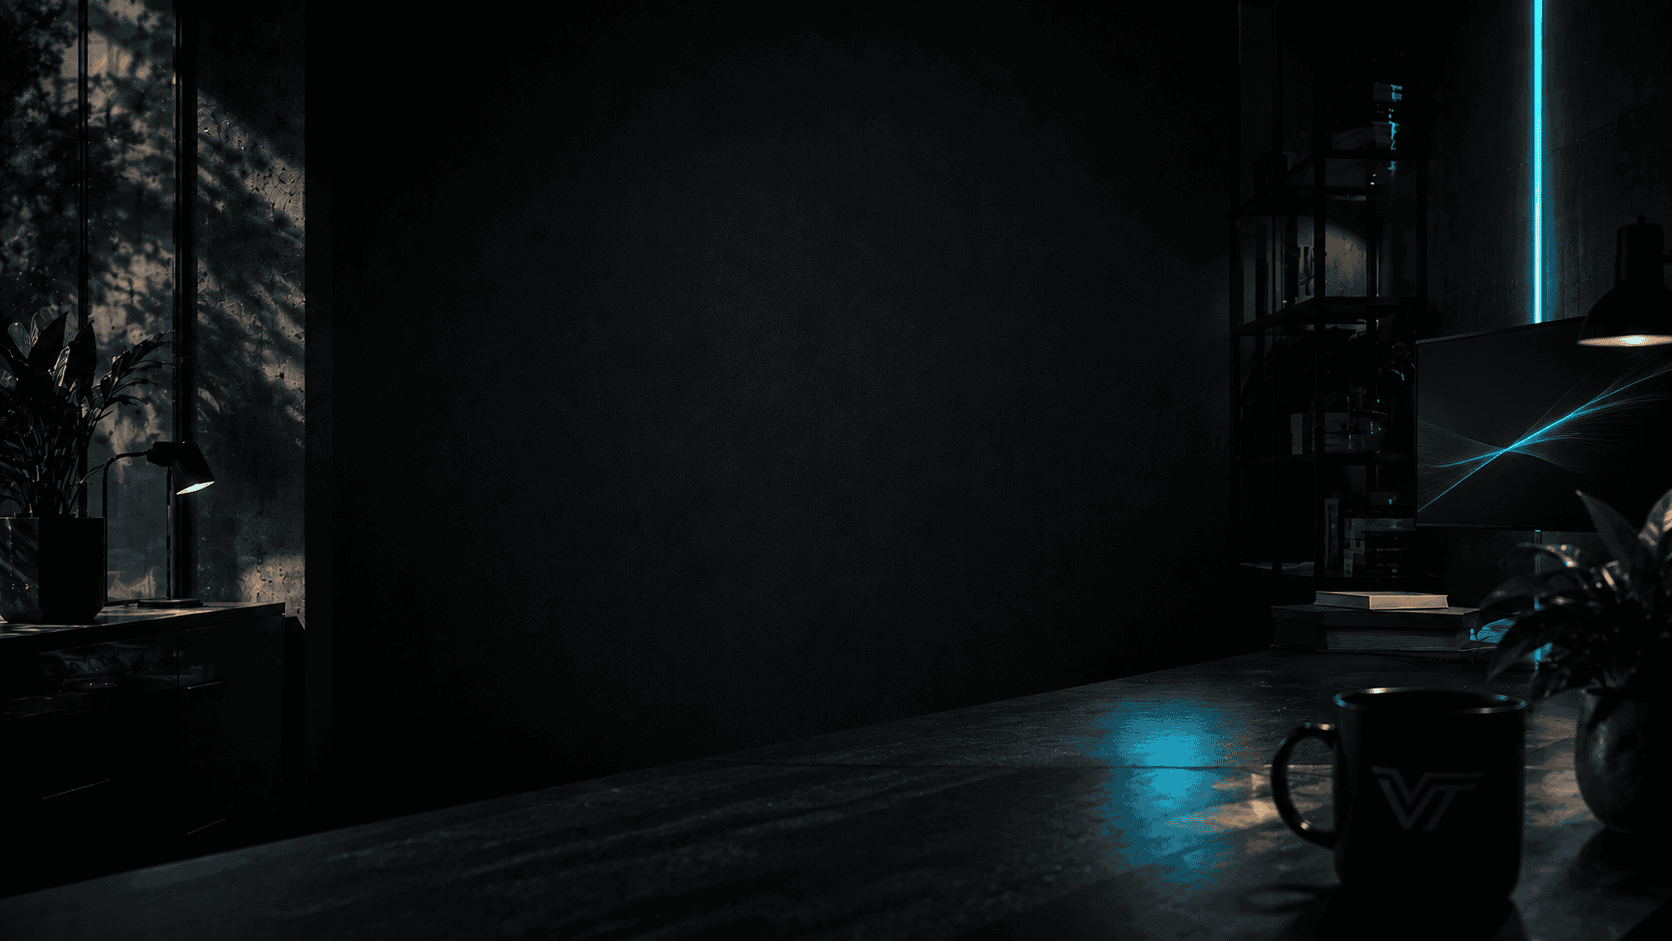
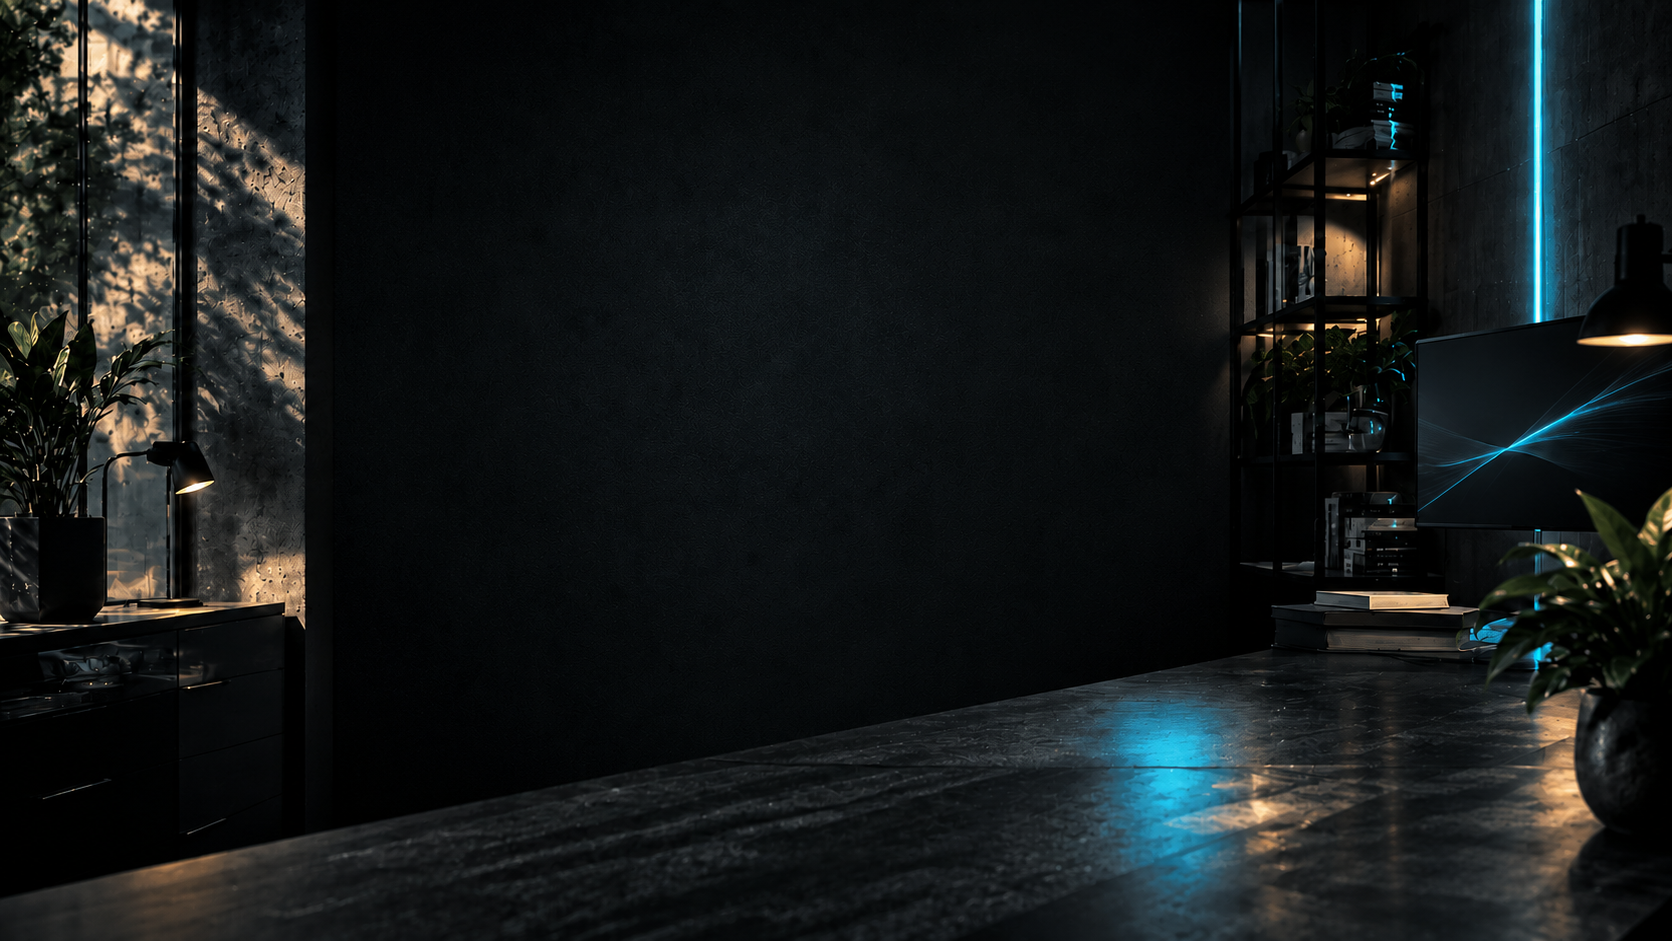
Last save before the redesign

diff --git a/src/pages/about/AboutValues.jsx b/src/pages/about/AboutValues.jsx
@@ -1,0 +1,200 @@
+import "./AboutPage.css";
+
+export function AboutValues() {
+  return (
+    <div className="values-container">
+      <div className="values-header reveal">
+        <h2>Our Values</h2>
+        <p>The principles that guide everything we do</p>
+      </div>
+
+      <div className="values-services">
+        <div className="service reveal">
+          <div className="icon">
+            <svg xmlns="http://www.w3.org/2000/svg" viewBox="0 0 640 640">
+              <path
+                fill="rgb(64, 254, 254)"
+                d="M598.1 139.4C608.8 131.6 611.2 116.6 603.4 105.9C595.6 95.2 580.6 92.8 569.9 100.6L495.4 154.8L485.5 148.2C465.8 135 442.6 128 418.9 128L359.7 128L359.3 128L215.7 128C189 128 163.2 136.9 142.3 153.1L70.1 100.6C59.4 92.8 44.4 95.2 36.6 105.9C28.8 116.6 31.2 131.6 41.9 139.4L129.9 203.4C139.5 210.3 152.6 209.3 161 201L164.9 197.1C178.4 183.6 196.7 176 215.8 176L262.1 176L170.4 267.7C154.8 283.3 154.8 308.6 170.4 324.3L171.2 325.1C218 372 294 372 340.9 325.1L368 298L465.8 395.8C481.4 411.4 481.4 436.7 465.8 452.4L456 462.2L425 431.2C415.6 421.8 400.4 421.8 391.1 431.2C381.8 440.6 381.7 455.8 391.1 465.1L419.1 493.1C401.6 503.5 381.9 509.8 361.5 511.6L313 463C303.6 453.6 288.4 453.6 279.1 463C269.8 472.4 269.7 487.6 279.1 496.9L294.1 511.9L290.3 511.9C254.2 511.9 219.6 497.6 194.1 472.1L65 343C55.6 333.6 40.4 333.6 31.1 343C21.8 352.4 21.7 367.6 31.1 376.9L160.2 506.1C194.7 540.6 241.5 560 290.3 560L342.1 560L343.1 561L344.1 560L349.8 560C398.6 560 445.4 540.6 479.9 506.1L499.8 486.2C501 485 502.1 483.9 503.2 482.7C503.9 482.2 504.5 481.6 505.1 481L609 377C618.4 367.6 618.4 352.4 609 343.1C599.6 333.8 584.4 333.7 575.1 343.1L521.3 396.9C517.1 384.1 510 372 499.8 361.8L385 247C375.6 237.6 360.4 237.6 351.1 247L307 291.1C280.5 317.6 238.5 319.1 210.3 295.7L309 197C322.4 183.6 340.6 176 359.6 175.9L368.1 175.9L368.3 175.9L419.1 175.9C433.3 175.9 447.2 180.1 459 188L482.7 204C491.1 209.6 502 209.3 510.1 203.4L598.1 139.4z"
+              />
+            </svg>
+          </div>
+          <h3>Trust & Transparency</h3>
+          <p>
+            Honest communication, clear timelines, and no surprises. We believe
+            trust is built through transparency at every stage of the journey.
+          </p>
+        </div>
+
+        <div className="service reveal">
+          <div className="icon">
+            <svg
+              xmlns="http://www.w3.org/2000/svg"
+              width="28"
+              height="28"
+              viewBox="0 0 28 28"
+              fill="none"
+            >
+              <path
+                d="M22.1673 16.3333C23.9057 14.63 25.6673 12.5883 25.6673 9.91667C25.6673 8.21486 24.9913 6.58276 23.7879 5.3794C22.5846 4.17604 20.9525 3.5 19.2507 3.5C17.1973 3.5 15.7507 4.08333 14.0007 5.83333C12.2507 4.08333 10.804 3.5 8.75065 3.5C7.04885 3.5 5.41674 4.17604 4.21338 5.3794C3.01002 6.58276 2.33398 8.21486 2.33398 9.91667C2.33398 12.6 4.08398 14.6417 5.83398 16.3333L14.0007 24.5L22.1673 16.3333Z"
+                stroke="#00D3F2"
+                stroke-width="2.33333"
+                stroke-linecap="round"
+                strokeLinejoin="round"
+              />
+            </svg>
+          </div>
+          <h3>Passion for Craft</h3>
+          <p>
+            We love what we do. Our team is genuinely passionate about
+            technology, design, and creating digital experiences that make a
+            difference.
+          </p>
+        </div>
+
+        <div className="service reveal">
+          <div className="icon">
+            <svg
+              xmlns="http://www.w3.org/2000/svg"
+              width="28"
+              height="28"
+              viewBox="0 0 28 28"
+              fill="none"
+            >
+              <path
+                d="M14.0007 25.6663C20.444 25.6663 25.6673 20.443 25.6673 13.9997C25.6673 7.55635 20.444 2.33301 14.0007 2.33301C7.55733 2.33301 2.33398 7.55635 2.33398 13.9997C2.33398 20.443 7.55733 25.6663 14.0007 25.6663Z"
+                stroke="#00D3F2"
+                stroke-width="2.33333"
+                stroke-linecap="round"
+                strokeLinejoin="round"
+              />
+              <path
+                d="M14 21C17.866 21 21 17.866 21 14C21 10.134 17.866 7 14 7C10.134 7 7 10.134 7 14C7 17.866 10.134 21 14 21Z"
+                stroke="#00D3F2"
+                stroke-width="2.33333"
+                stroke-linecap="round"
+                strokeLinejoin="round"
+              />
+              <path
+                d="M13.9993 16.3337C15.288 16.3337 16.3327 15.289 16.3327 14.0003C16.3327 12.7117 15.288 11.667 13.9993 11.667C12.7107 11.667 11.666 12.7117 11.666 14.0003C11.666 15.289 12.7107 16.3337 13.9993 16.3337Z"
+                stroke="#00D3F2"
+                stroke-width="2.33333"
+                stroke-linecap="round"
+                strokeLinejoin="round"
+              />
+            </svg>
+          </div>
+          <h3>Purpose-Driven</h3>
+          <p>
+            Every project starts with understanding your goals. We build
+            solutions that serve a clear purpose and drive measurable outcomes
+            for your business.
+          </p>
+        </div>
+
+        <div className="service reveal">
+          <div className="icon">
+            <svg
+              xmlns="http://www.w3.org/2000/svg"
+              width="28"
+              height="28"
+              viewBox="0 0 28 28"
+              fill="none"
+            >
+              <path
+                d="M4.66674 16.3331C4.44596 16.3339 4.22951 16.272 4.04252 16.1546C3.85553 16.0372 3.70568 15.8692 3.61038 15.67C3.51508 15.4709 3.47825 15.2488 3.50416 15.0296C3.53006 14.8103 3.61765 14.6029 3.75674 14.4314L15.3067 2.53145C15.3934 2.43144 15.5114 2.36387 15.6416 2.3398C15.7717 2.31574 15.9061 2.33663 16.0228 2.39904C16.1394 2.46144 16.2314 2.56166 16.2836 2.68324C16.3358 2.80482 16.3452 2.94054 16.3101 3.06812L14.0701 10.0914C14.004 10.2682 13.9818 10.4584 14.0054 10.6456C14.029 10.8329 14.0977 11.0116 14.2055 11.1664C14.3133 11.3213 14.4571 11.4477 14.6246 11.5348C14.792 11.6219 14.978 11.6671 15.1667 11.6664H23.3334C23.5542 11.6657 23.7706 11.7276 23.9576 11.845C24.1446 11.9623 24.2945 12.1304 24.3898 12.3295C24.4851 12.5287 24.5219 12.7508 24.496 12.97C24.4701 13.1893 24.3825 13.3967 24.2434 13.5681L12.6934 25.4681C12.6068 25.5681 12.4887 25.6357 12.3586 25.6598C12.2285 25.6838 12.0941 25.6629 11.9774 25.6005C11.8607 25.5381 11.7687 25.4379 11.7165 25.3163C11.6643 25.1947 11.655 25.059 11.6901 24.9314L13.9301 17.9081C13.9961 17.7313 14.0183 17.5412 13.9947 17.3539C13.9711 17.1667 13.9025 16.988 13.7946 16.8331C13.6868 16.6782 13.543 16.5518 13.3756 16.4648C13.2082 16.3777 13.0221 16.3325 12.8334 16.3331H4.66674Z"
+                stroke="#00D3F2"
+                stroke-width="2.33333"
+                stroke-linecap="round"
+                strokeLinejoin="round"
+              />
+            </svg>
+          </div>
+          <h3>Innovation First</h3>
+          <p>
+            We stay ahead of the curve, embracing new technologies and
+            methodologies to deliver cutting-edge solutions that future-proof
+            your business.
+          </p>
+        </div>
+
+        <div className="service reveal">
+          <div className="icon">
+            <svg
+              xmlns="http://www.w3.org/2000/svg"
+              width="28"
+              height="28"
+              viewBox="0 0 28 28"
+              fill="none"
+            >
+              <path
+                d="M18.6673 24.5V22.1667C18.6673 20.929 18.1757 19.742 17.3005 18.8668C16.4253 17.9917 15.2383 17.5 14.0007 17.5H7.00065C5.76297 17.5 4.57599 17.9917 3.70082 18.8668C2.82565 19.742 2.33398 20.929 2.33398 22.1667V24.5"
+                stroke="#00D3F2"
+                stroke-width="2.33333"
+                stroke-linecap="round"
+                strokeLinejoin="round"
+              />
+              <path
+                d="M10.5007 12.8333C13.078 12.8333 15.1673 10.744 15.1673 8.16667C15.1673 5.58934 13.078 3.5 10.5007 3.5C7.92332 3.5 5.83398 5.58934 5.83398 8.16667C5.83398 10.744 7.92332 12.8333 10.5007 12.8333Z"
+                stroke="#00D3F2"
+                stroke-width="2.33333"
+                stroke-linecap="round"
+                strokeLinejoin="round"
+              />
+              <path
+                d="M25.666 24.5007V22.1673C25.6652 21.1334 25.3211 20.1289 24.6876 19.3117C24.0541 18.4945 23.1672 17.9108 22.166 17.6523"
+                stroke="#00D3F2"
+                stroke-width="2.33333"
+                stroke-linecap="round"
+                strokeLinejoin="round"
+              />
+              <path
+                d="M18.666 3.65137C19.6698 3.90839 20.5596 4.49218 21.1949 5.31073C21.8303 6.12927 22.1752 7.136 22.1752 8.1722C22.1752 9.2084 21.8303 10.2151 21.1949 11.0337C20.5596 11.8522 19.6698 12.436 18.666 12.693"
+                stroke="#00D3F2"
+                stroke-width="2.33333"
+                stroke-linecap="round"
+                strokeLinejoin="round"
+              />
+            </svg>
+          </div>
+          <h3>Collaborative Partnership</h3>
+          <p>
+            You're not just a client, you're a partner. We work closely with
+            you, valuing your input and expertise throughout the entire process.
+          </p>
+        </div>
+
+        <div className="service reveal">
+          <div className="icon">
+            <svg
+              xmlns="http://www.w3.org/2000/svg"
+              width="28"
+              height="28"
+              viewBox="0 0 28 28"
+              fill="none"
+            >
+              <path
+                d="M25.6673 8.16699L15.7507 18.0837L9.91732 12.2503L2.33398 19.8337"
+                stroke="#00D3F2"
+                stroke-width="2.33333"
+                stroke-linecap="round"
+                strokeLinejoin="round"
+              />
+              <path
+                d="M18.666 8.16699H25.666V15.167"
+                stroke="#00D3F2"
+                stroke-width="2.33333"
+                stroke-linecap="round"
+                strokeLinejoin="round"
+              />
+            </svg>
+          </div>
+          <h3>Continuous Growth</h3>
+          <p>
+            We're committed to ongoing learning and improvement, both for our
+            team and the solutions we deliver to ensure long-term success.
+          </p>
+        </div>
+      </div>
+    </div>
+  );
+}

diff --git a/src/pages/about/AboutPage.css b/src/pages/about/AboutPage.css
@@ -1,0 +1,122 @@
+
+.about-hero{
+  position: relative;
+  display: flex;
+  flex-direction: column;
+  align-items: center;
+  justify-content: center;
+  gap: 25px;
+  overflow: hidden;
+  padding: 0px 20px;
+  height: 60vh;
+  opacity: 1;
+}
+
+.about-hero img{
+  width: 80%;
+  height: auto;
+  display: block;
+  align-items: center;
+  max-width: 520px;
+}
+
+.about-hero h1{
+  display: none;
+}
+
+.our-story{
+  display: grid;
+  grid-template-columns: 1fr;
+  gap: 60px;
+  margin-bottom: 80px;
+  padding: 0 40px;
+}
+
+.our-storytext{
+  display: flex;
+  flex-direction: column;
+  gap: 40px;
+  text-align: center;
+  align-items: center;
+}
+
+.our-storyimg{
+  display: flex;
+  flex-direction: column;
+  align-items: center;
+}
+
+.our-storyimg img{
+  width: 100%;
+  height: auto;
+  display: block;
+  border-radius: 10px;
+  box-shadow: 0 4px 8px #ffffff10;
+  max-width: 520px;
+}
+
+.service svg{
+  fill: none;
+}
+
+.values-container{
+  text-align: center;
+  display: flex;
+  flex-direction: column;
+  gap: 40px;
+  text-align: center;
+  align-items: center;
+  padding-bottom: 80px;
+}
+
+.values-services{
+  display: grid;
+  grid-template-columns: 1fr;
+  gap: 40px;
+}
+
+.values-header p{
+  line-height: 40px;
+}
+
+.ready-container{
+  margin-top: 80px;
+}
+
+
+
+@media (min-width: 1024px){
+  .our-story{
+  display: flex;
+  flex-direction: row;
+  align-items: center;
+  margin-bottom: 300px;
+}
+.values-header h2{
+  margin-bottom: 10px;
+}
+
+.values-header{
+  margin-bottom: 40px;
+}
+}
+
+@media (min-width: 1440px){
+  .our-story p{
+    max-width: 1000px;
+  }
+
+  .our-story{
+  justify-content: space-around;
+  padding: 0 80px;
+}
+
+  .about-hero{
+    padding: 300px 20px;
+  }
+
+  .values-services{
+  grid-template-columns: 1fr 1fr;
+  margin: 0 120px;
+}
+}

diff --git a/src/pages/about/AboutHero.jsx b/src/pages/about/AboutHero.jsx
@@ -1,0 +1,24 @@
+import Logo from "../../assets/Logo.webp";
+import Hero from "../../assets/Venture-Hero.webp";
+import "./AboutPage.css";
+
+export function AboutHero() {
+  return (
+    <div class="about-hero" style={{ backgroundImage: `url(${Hero})`,
+          backgroundSize: "cover",
+          backgroundPosition: "right",
+          backgroundRepeat: "no-repeat" }}>
+      <div className="hero-overlay"></div>
+      <div className="hero-header" >
+            
+      <img src={Logo} alt="Logo2" className="logo hero-line" />
+      <h1>
+        About Venture Technologies
+      </h1>
+      <p class="hero-line">
+        We're a team of designers, developers, and strategists dedicated to creating exceptional digital experiences that drive real business results.
+      </p>
+      </div>
+  </div>
+  )
+} 

diff --git a/src/pages/about/AboutPage.jsx b/src/pages/about/AboutPage.jsx
@@ -1,8 +1,12 @@
 import { Footer } from "../../components/Footer";
+import { AboutHero } from "./AboutHero";
+import { AboutValues } from "./AboutValues";
 
 export function AboutPage() {
   return (
     <>
+    <AboutHero />
+    <AboutValues />
       <Footer />
     </>
   );

diff --git a/src/pages/home/HomeHero.css b/src/pages/home/HomeHero.css
@@ -28,7 +28,7 @@
 .hero-overlay {
   position: absolute;
   inset: 0;
-  background: rgba(0, 0, 0, 0.6);
+  background: rgba(0, 0, 0, 0.5);
   z-index: 1;
 }
 

diff --git a/src/components/Header.css b/src/components/Header.css
@@ -79,7 +79,7 @@
   position: absolute;
   top: 30px;
   right: 20px;
-  color: #2056AE;
+  color: #40FEFE;
   cursor: pointer;
 }
 
